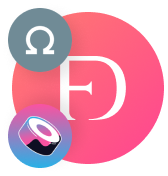
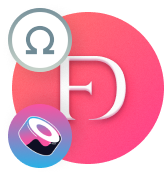
Fix issues

Changed region(s): [[0.0298, 0.0568, 0.7738, 0.7102]]

diff --git a/src/components/custom/icon/index.tsx b/src/components/custom/icon/index.tsx
@@ -42,6 +42,7 @@ import txSuccessImg from 'resources/png/tx-success.png';
 import UMASrc from 'resources/png/UMA.png';
 import universeSrc from 'resources/png/universe.png';
 import wsOHM_FDT_SUSHI_LPImg from 'resources/png/wsOHM_FDT_SUSHI_LP.png';
+import gohm_fdt_slp_amphoraImg from 'resources/png/gohm_fdt_slp_amphora.png';
 import wsOHMSrc from 'resources/png/wsOHM.png';
 import YFISrc from 'resources/png/YFI.png';
 import notConnected from 'resources/svg/not-connected.svg';
@@ -97,6 +98,7 @@ export type TokenIconNames =
   | 'png/YFI'
   | 'png/ETH_FDT_SLP'
   | 'png/wsOHM_FDT_SUSHI_LP'
+  | 'png/gohm_fdt_slp_amphora'
   | 'yearn_finance';
 
 export type NavIconNames =
@@ -269,6 +271,8 @@ const Icon: React.FC<IconProps> = props => {
           return ETH_FDT_SLPImg;
         case 'png/wsOHM_FDT_SUSHI_LP':
           return wsOHM_FDT_SUSHI_LPImg;
+        case 'png/gohm_fdt_slp_amphora':
+          return gohm_fdt_slp_amphoraImg;
         case 'png/mkr':
           return MKRSrc;
         case 'png/rgt':

diff --git a/src/modules/rewards/components/pool-stake/index.tsx b/src/modules/rewards/components/pool-stake/index.tsx
@@ -178,7 +178,7 @@ const PoolStake: FC = () => {
                   <>
                     You are not eligible for liquidity mining in this pool. To participate, you need to stake in the DAO and claim NFTs from Age of Romulus.
                     {' '}
-                    <a href='https://medium.com/fiat-dao/the-ludi-liquidi-are-soon-upon-us-f80955864ada' target="_blank" rel="noopener">
+                    <a href='https://medium.com/fiat-dao/the-ludi-liquidi-are-soon-upon-us-f80955864ada' style={{ textDecoration: 'underline' }} target="_blank" rel="noopener">
                       Learn more.
                     </a>
                   </>

diff --git a/src/modules/rewards/providers/pools-provider/index.tsx b/src/modules/rewards/providers/pools-provider/index.tsx
@@ -138,7 +138,7 @@ export const wsOHMFdtSLPYfPool: YFPoolMeta = {
 export const gOHMFdtAmphoraSLPYfPool: YFPoolMeta = {
   name: YFPoolNFTID.gOHM_FDT_SLP_Amphora,
   label: 'gOHM_FDT_SUSHI_LP_Amphora',
-  icons: ['png/wsOHM_FDT_SUSHI_LP'],
+  icons: ['png/gohm_fdt_slp_amphora'],
   colors: ['var(--theme-red-color)'],
   tokens: [gOHMFdtAmphoraSLPToken],
   isNFTPool: true,

diff --git a/src/components/custom/token-amount/index.tsx b/src/components/custom/token-amount/index.tsx
@@ -68,7 +68,7 @@ const TokenAmount: React.FC<TokenAmountProps> = props => {
             <div className="mr-8" />
             {!isMobile && (
               <Text type="lb1" weight="semibold" color="primary">
-                {name}
+                {name === 'gOHM_FDT_SLP_Amphora' ? 'gOHM_FDT_SLP' : name}
               </Text>
             )}
           </div>
